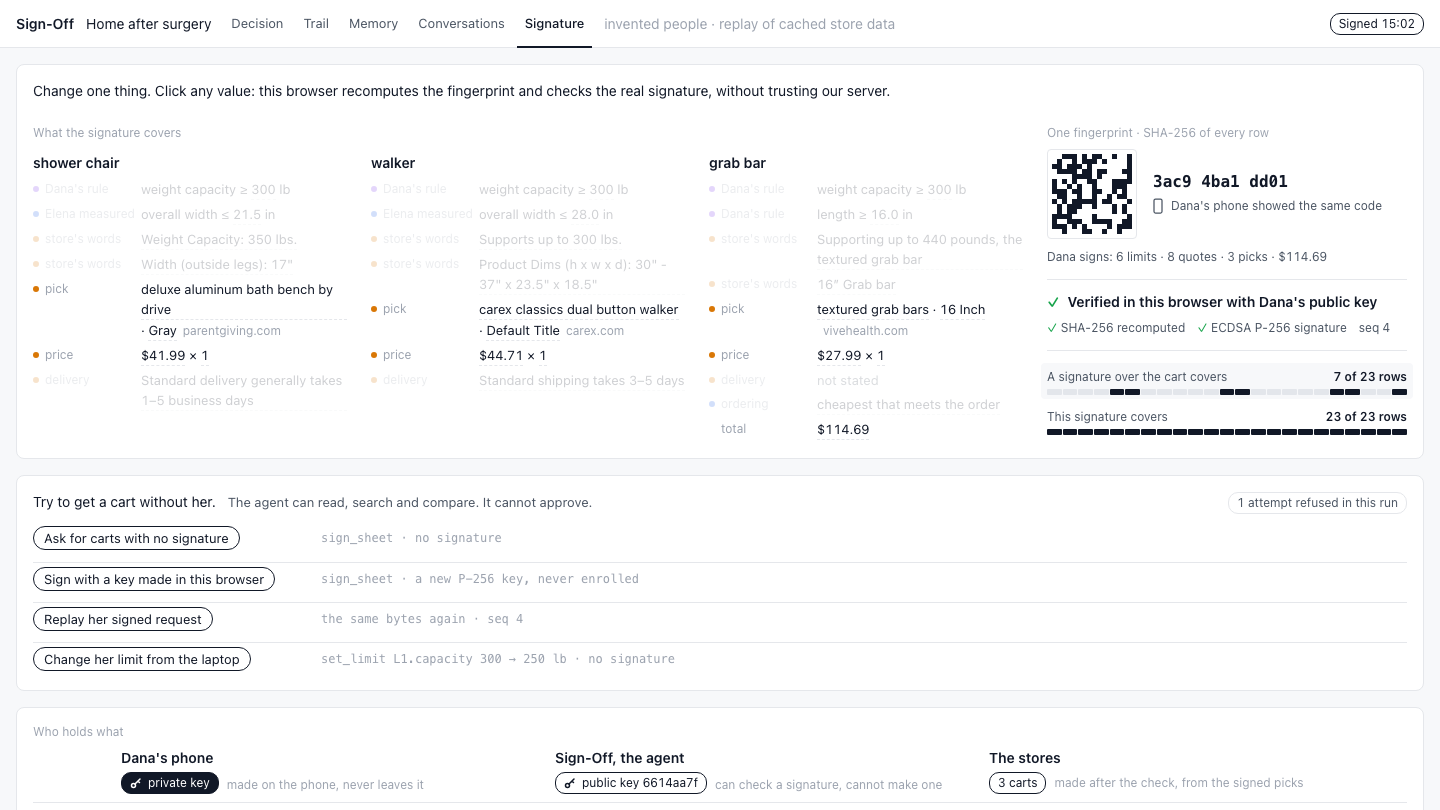
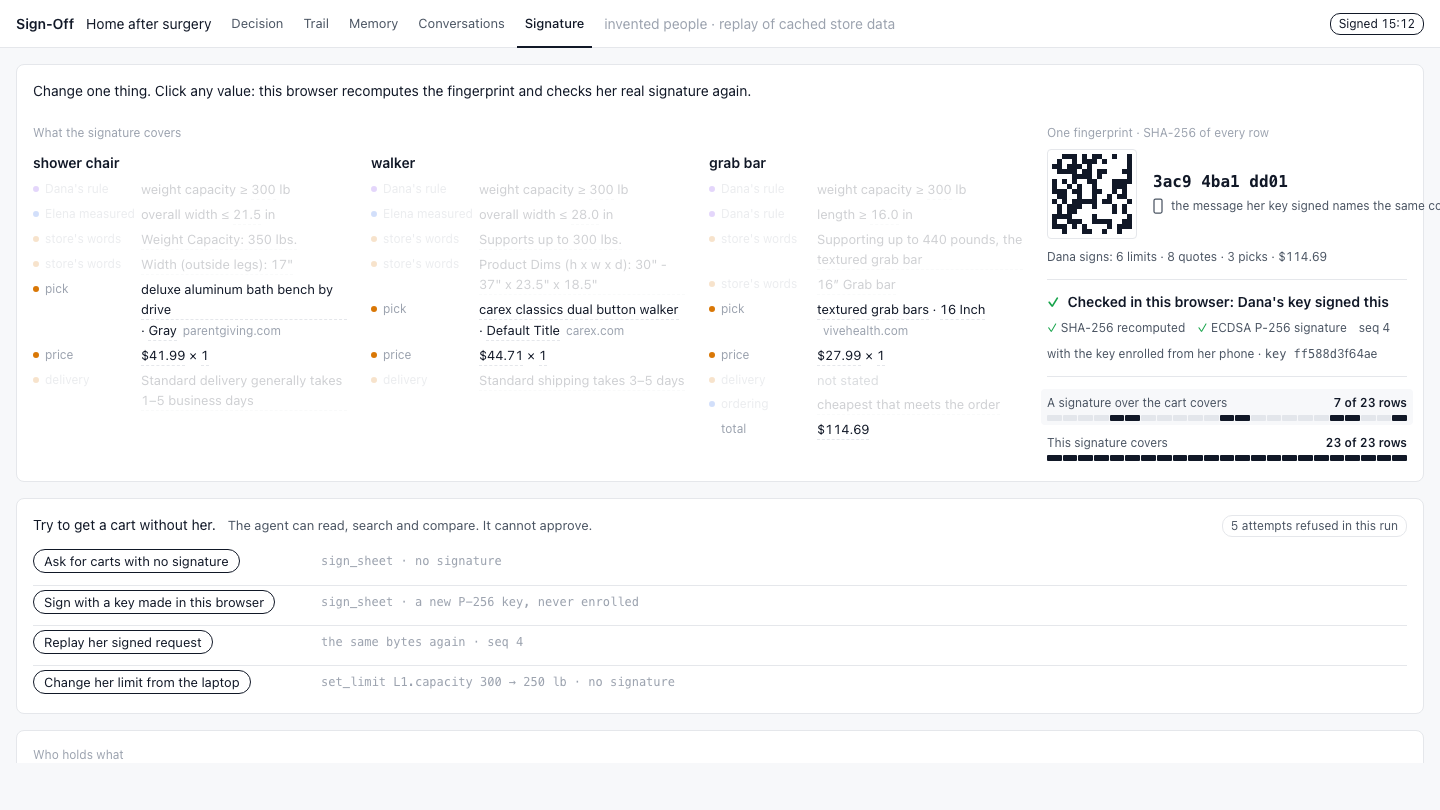
SEAL and TALK: the four corrections from the 15:00 reviews; notes; shots retaken

diff --git a/web/seal/seal.js b/web/seal/seal.js
@@ -99,7 +99,9 @@ function renderCheck() {
   const onPhone = real.signedFingerprint || real.fingerprint;  // the phone computes it from the same canonical text
   const same = r.fingerprint === onPhone;
   q("#codes").innerHTML = `<span class="code ${same ? "" : "off"}" title="${esc(r.fingerprint)}">${esc(short(r.fingerprint))}</span>
-    <span class="phone">${ICON.phone}<span>${esc(who)}'s phone ${p.signed ? "showed" : p.public_key ? "shows" : "will show"} ${same ? "the same code" : `<code>${esc(short(onPhone))}</code>`}</span></span>`;
+    <span class="phone">${ICON.phone}<span>${p.signed
+      ? (same ? "the message her key signed names the same code" : `the message her key signed names <code>${esc(short(onPhone))}</code>`)
+      : "no signed message names this code yet"}</span></span>`;
   q("#sum").textContent = p.summary.text;
   const restore = edited ? `<button class="link" id="restore">Restore</button>` : "";
   let html;

diff --git a/NOTES/INTEGRATOR.md b/NOTES/INTEGRATOR.md
@@ -2400,3 +2400,27 @@ Checked from the cache in replay mode, per product (rating, scale as quoted, cou
   number of reviews: not used for ordering", "no quoted rating", "not searched yet". `summary` has `used_for_ordering` and
   `with_a_rating_not_used_for_ordering` (L4: 2 and 2; L1: 0 and 3). A test checks that the candidates with `ordering.used` are exactly
   the keys of `ratings()`. Proof: `SIGNOFF_OBS=off uv run pytest tests/reviews -q` → `19 passed, 1 deselected`.
+
+## TALK 15:15 — the four corrections (reviews of 15:00)
+1. Trust wording. "without trusting our server" is gone. The page says "Checked in this browser: Dana's key signed
+   this", "with the key enrolled from her phone · key ff588d3f64ae" (computed in the page from the key itself), and "the
+   message her key signed names the same code". It does not say the phone shows the key's code: the phone prints the
+   server's `key_id` today (`web/phone/index.html:205`); asked of SIGN in NOTES/SIGN.md.
+2. Rows from the canonical sheet. Every value offered for editing is a node of the canonical text. The pick's name is the
+   canonical `title` when the sheet has one, else `product_key`; any other text or number in the pick that the page has no
+   layout for gets its own row, named by its key (ids stay out). Change and restore: typing the value that was there
+   (300, 300.0, " 300 ") removes the edit, so the original bytes and the first fingerprint return. Tested with the page's
+   own code under node: 300 → 250 fails, back to 300 is valid with the first fingerprint.
+3. The attempts, tested as real POSTs: `tests/seal/test_attempts.py` posts each to SIGN's real route, before she signs
+   and after, and asserts the status, the error, one new `request_refused` receipt each, and that the key, `seq`, the
+   engine and the carts are as they were. `uv run pytest tests/seal -q` → `11 passed`.
+4. `/talk/`. The default list is the one lead blocked share (`cbd3c7f37f4f`, marked `lead` in its record), then one of
+   the agent's own exchanges per store; every shopper ask says "typed to test the guard" and the rest are behind
+   "+N more · typed to test the guard". The count is on the page, from the records: "13 messages to the stores' own
+   agents · 4 not sent, 2 of those over-cautious" (`GET /api/talk/threads` → `count`). "Over-cautious" is the reviewer's
+   judgement, written into the two turns it is about (`review: {verdict, why, by}` in `f9faad4b5aed` turn 1 and
+   `cbd3c7f37f4f` turn 2) and shown beside them; the guard itself was not changed for these two cases.
+- Know this: the lead share's sent message and draft fit the timeline; the shopper's words behind its click still say
+  "came home from a hip operation on Monday". They are the real words that were typed, so I did not edit them.
+- Shots retaken: `web/seal/shots/*` (ten), `web/talk/shots/talk-thread.png`. `./hk check` result is in the next line.
+449 passed, 12 deselected, 1 warning in 18.33s

diff --git a/NOTES/SIGN.md b/NOTES/SIGN.md
@@ -129,3 +129,11 @@ apart from `pick_rules` (top level) and `picked_because` (on each picked candida
   line `preferences`: `[{"id", "op", "unit", "set_by", "bound", "terms"}]` when the line has any; in `pick`: `preferences`:
   `[{"id", "status", "expr"}]`, and with a review ordering `rating` (the object above or null) and, for `most_popular`,
   `review_count`. `picked_because` is words for the screen and is not in the canonical sheet.
+
+## TALK 15:14 — the key's fingerprint on the phone (the reviewer, item 8)
+- `/seal/` now shows the enrolled key's fingerprint, computed in the page from the key itself: SHA-256 of `x + "." + y`,
+  the first 16 hex characters (your `key_id`), printed as `key ff588d` plus the next six. It says only "with the key
+  enrolled from her phone", because the page cannot know the phone shows the same.
+- Please show, on the phone's key screen, the id the phone computes from its own key (`web/phone/index.html:138`), not
+  `issuer.key_id` from the server (`:205` prints the server's, first six). When it does, tell me and `/seal/` adds
+  "the same code is on Dana's phone".
